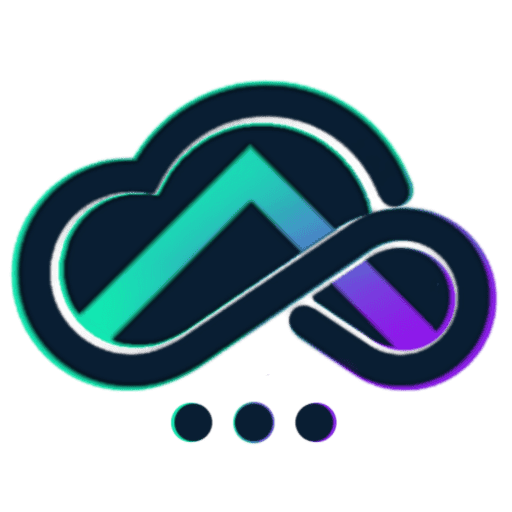
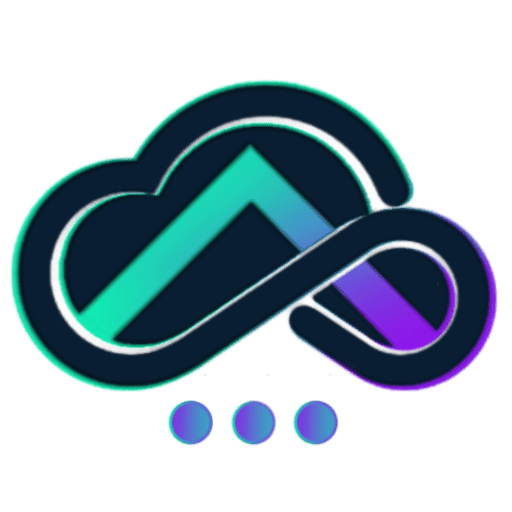
Regular update, and added delete clipboard functionality

diff --git a/src/commands/paste.ts b/src/commands/paste.ts
@@ -14,7 +14,7 @@ export default async function paste(dir: string | undefined) {
         if(connectionList === undefined){
             window.showInformationMessage("Cloud Clipboard is not configured correctly. Please configure it in the extension settings.", "Open Settings").then(selection => {
                 if (selection === "Open Settings") {
-                    commands.executeCommand('workbench.action.openSettings', '@ext:AylexCODE.cloud-clipboard');
+                    commands.executeCommand("workbench.action.openSettings", "@ext:AylexCODE.cloud-clipboard");
                 }
             });
             return;
@@ -23,6 +23,8 @@ export default async function paste(dir: string | undefined) {
         const items = connectionList.map((conn) => {
             return { label: conn };
         });
+
+        if(items.length === 0) return window.showWarningMessage(`Clipboard is empty for the connection ${config.get<string>("connection")!}`);
 
         const clipboardList = await window.showQuickPick(items, {
             canPickMany: false,
@@ -42,53 +44,53 @@ export default async function paste(dir: string | undefined) {
                             editBuilder.replace(selection, clipboard[0].content);
                         });
 
-                        if(!pasted) return window.showWarningMessage('Paste error.');
+                        if(!pasted) return window.showWarningMessage("Paste error.");
                         
                         window.showInformationMessage(`Pasted ${clipboardList.label} at line ${selection.active.line + 1}`);
                     }else if(clipboard.length !== 0){
                         const folderName = await window.showInputBox({ prompt: "Save To Folder" });
-                        if(!folderName) return window.showWarningMessage(`Paste cancelled.`);
+                        if(!folderName) return window.showWarningMessage("Paste cancelled.");
 
                         const saveDir = workspace.getWorkspaceFolder(editor.document.uri);
-                        if(!saveDir) return window.showWarningMessage('Paste error.');
+                        if(!saveDir) return window.showWarningMessage("Paste error.");
 
                         vscodeClipboard(saveDir.uri.path, folderName, clipboard, clipboardList.label);
                     }else{
-                        return window.showWarningMessage('Paste error.');
+                        return window.showWarningMessage("Paste cancelled, clipboard is empty.");
                     }
                 }else{
-                    return window.showWarningMessage('Paste error.');
+                    return window.showWarningMessage("Paste error.");
                 }
             }else{
                 const clipboard = await getClipboardContent(config, clipboardList.label);
                 if(clipboard){
                     if(clipboard.length === 1){
                         const fileName = await window.showInputBox({ prompt: "Save As" });
-                        if(!fileName) return window.showWarningMessage(`Paste cancelled.`);
+                        if(!fileName) return window.showWarningMessage("Paste cancelled.");
                         
                         const filePath = Uri.file(path.join(dir, fileName));
-                        await workspace.fs.writeFile(filePath, Buffer.from(clipboard[0].content, 'utf-8'));
+                        await workspace.fs.writeFile(filePath, Buffer.from(clipboard[0].content, "utf-8"));
 
                         window.showInformationMessage(`Pasted ${clipboardList.label} at ${fileName}`);
                         const createdFile = await workspace.openTextDocument(filePath);
                         await window.showTextDocument(createdFile);
                     }else if(clipboard.length !== 0){
                         const folderName = await window.showInputBox({ prompt: "Save To Folder" });
-                        if(!folderName) return window.showWarningMessage(`Paste cancelled.`);
+                        if(!folderName) return window.showWarningMessage("Paste cancelled.");
 
                         vscodeClipboard(dir, folderName, clipboard, clipboardList.label);
                     }else{
-                        return window.showWarningMessage('Paste error.');
+                        return window.showWarningMessage("Paste cancelled, clipboard is empty.");
                     }
                 }else{
-                    return window.showWarningMessage('Paste error.');
+                    return window.showWarningMessage("Paste error.");
                 }
             }
         }else{
-            window.showWarningMessage('Paste cancelled.');
+            window.showWarningMessage("Paste cancelled.");
         }
     }catch{
-        window.showErrorMessage('Paste error.');
+        window.showErrorMessage("An error occured.");
     }
 }
 
@@ -97,7 +99,7 @@ async function vscodeClipboard(saveDir: string, folderName: string, clipboard: C
 
     clipboard.forEach(async (data) => {
         const filePath = Uri.joinPath(Uri.file(saveDir), folderName, data.file);
-        await workspace.fs.writeFile(filePath, Buffer.from(data.content, 'utf-8'));
+        await workspace.fs.writeFile(filePath, Buffer.from(data.content, "utf-8"));
         const createdFile = await workspace.openTextDocument(filePath);
         await window.showTextDocument(createdFile);
     });

diff --git a/src/commands/copy.ts b/src/commands/copy.ts
@@ -11,7 +11,7 @@ export default async function copy(dirs: Uri[] | undefined){
         if(config.get<string>("endpoint")!.trim().length === 0 || config.get<string>("connection")!.trim().length === 0) {
             window.showInformationMessage("Cloud Clipboard is not configured correctly. Please configure it in the extension settings.", "Open Settings").then(selection => {
                 if (selection === "Open Settings") {
-                    commands.executeCommand('workbench.action.openSettings', '@ext:AylexCODE.cloud-clipboard');
+                    commands.executeCommand("workbench.action.openSettings", "@ext:AylexCODE.cloud-clipboard");
                 }
             });
             return;
@@ -23,7 +23,7 @@ export default async function copy(dirs: Uri[] | undefined){
         const selection = editor.selection;
         const content = editor.document.getText(selection);
 
-        if(dirs === undefined) if(content.trim().length === 0) return window.showWarningMessage('Please highlight content to save.');
+        if(dirs === undefined) if(content.trim().length === 0) return window.showWarningMessage("Please highlight content to save.");
         
         const clipboard = await window.showInputBox({ prompt: "Copy As" });
         if(clipboard){
@@ -32,7 +32,7 @@ export default async function copy(dirs: Uri[] | undefined){
                 if(saved === 200){
                     window.showInformationMessage(`Copied ${clipboard} to cloud clipboard.`);
                 }else{
-                    window.showErrorMessage('An error occured while copying to cloud clipboard.');
+                    window.showErrorMessage("An error occured while copying to cloud clipboard.");
                 }
             }else{
                 let contents: ClipboardData[] = [];
@@ -57,14 +57,14 @@ export default async function copy(dirs: Uri[] | undefined){
                 if(saveStatus === 200){
                     window.showInformationMessage(`Copied ${clipboard} to cloud clipboard.`);
                 }else{
-                    window.showErrorMessage('An error occured while copying to cloud clipboard.');
+                    window.showErrorMessage("An error occured while copying to cloud clipboard.");
                 }
 
             }
         }else{
-            window.showWarningMessage('Copy cancelled.');
+            window.showWarningMessage("Copy cancelled.");
         }
     }catch{
-        window.showErrorMessage('Copy error.');
+        window.showErrorMessage("An error occured.");
     }
 }

diff --git a/src/commands/delete.ts b/src/commands/delete.ts
@@ -1,0 +1,40 @@
+import { commands, window, workspace } from "vscode";
+import getConnections from "../utils/getConnectionLists";
+import deleteClipboard from "../utils/deleteClipboard";
+
+export default async function del() {    
+    try{
+        const config = workspace.getConfiguration("cloudclipboard");
+
+        const connectionList = await getConnections(config);
+        if(connectionList === undefined){
+            window.showWarningMessage("Cloud Clipboard is not configured correctly. Please configure it in the extension settings.", "Open Settings").then(selection => {
+                if (selection === "Open Settings") {
+                    commands.executeCommand("workbench.action.openSettings", "@ext:AylexCODE.cloud-clipboard");
+                }
+            });
+            return;
+        }
+
+        const items = connectionList.map((conn) => {
+            return { label: conn };
+        });
+
+        if(items.length === 0) return window.showWarningMessage(`Clipboard is empty for the connection ${config.get<string>("connection")!}`);
+
+        const clipboardList = await window.showQuickPick(items, {
+            canPickMany: false,
+            title: "Select Clipboard"
+        });
+
+        if(clipboardList?.label){
+            const clipboard = await deleteClipboard(config, clipboardList.label);
+            if(clipboard === 200) return window.showInformationMessage(`Deleted ${clipboardList.label} successfully`);
+            window.showWarningMessage("Delete error.");
+        }else{
+            window.showWarningMessage("Delete cancelled.");
+        }
+    }catch{
+        window.showErrorMessage("An error occured.");
+    }
+}

diff --git a/src/commands.ts b/src/commands.ts
@@ -2,6 +2,7 @@ import { commands, Uri, window, ExtensionContext } from "vscode";
 import paste from "./commands/paste";
 import copy from "./commands/copy";
 import getDirectory from "./utils/getDirectory";
+import del from "./commands/delete";
 
 export default function registerAllCommands(context: ExtensionContext) {
     context.subscriptions.push(commands.registerCommand('cloudclipboard.copy', async(uri: Uri, uris: Uri[]) => {
@@ -19,4 +20,5 @@ export default function registerAllCommands(context: ExtensionContext) {
         }catch{window.showErrorMessage('Error selecting directory.')}
     }));
     context.subscriptions.push(commands.registerCommand('cloudclipboard.editorPaste', () => {paste(undefined)}));
+    context.subscriptions.push(commands.registerCommand('cloudclipboard.delete', () => {del()}));
 }

diff --git a/src/utils/deleteClipboard.ts b/src/utils/deleteClipboard.ts
@@ -1,0 +1,15 @@
+import { WorkspaceConfiguration } from "vscode";
+
+export default async function deleteClipboard(config: WorkspaceConfiguration, clipboard: string): Promise<number | undefined> {
+    const endpoint: string = config.get<string>("endpoint")!;
+    const connection: string = config.get<string>("connection")!;
+    
+    if(endpoint.trim().length === 0 || connection.trim().length === 0) return undefined;
+
+    try{
+        const data = await fetch(`${endpoint}?connection=${connection}&clipboard=${clipboard}`, {method: "delete"});
+        return data.status;
+    }catch{
+        return 400;
+    }
+}

diff --git a/README.md b/README.md
@@ -16,6 +16,18 @@ Code instance and paste it instantly in another—across different machines, OSs
 - **Multi-Slot Support:** Save multiple snippets to different "slots" in the cloud.
 - **Cross-Platform:** Works wherever VS Code runs (Windows, macOS, Linux, and Web).
 
+## ⚒ Example Usage
+
+### Copy
+![copy](https://github.com/AylexCODE/cloud-clipboard/blob/main/img/demo/copy.png)
+
+### Paste
+![copy](https://github.com/AylexCODE/cloud-clipboard/blob/main/img/demo/paste.png)
+
+### Delete
+![copy](https://github.com/AylexCODE/cloud-clipboard/blob/main/img/demo/delete.png)
+
+
 ## 🛠 Infrastructure & Setup
 
 To keep this tool lightweight, private, free to use, and avoid overloading free-tier resources, **it is recommended to provide your own API endpoint.** 
@@ -51,7 +63,7 @@ To link your VS Code extension to your API Endpoint:
 1. Open **Settings** (`Ctrl + ,` or `Cmd + ,`).
 2. Search for **"Cloud Clipboard"**.
 3. Fill in your specific details:
-   - **API Endpoint**: `https://example.com`
+   - **API Endpoint**: `https://example.com` (make sure endpoint does not end with a slash)
    - **Connection**: `example`
   
 ### 3. Error Handling

diff --git a/CHANGELOG.md b/CHANGELOG.md
@@ -1,3 +1,12 @@
+## 0.1.0 - 2026 March 22
+### Added
+- Delete clipboard function
+- Example usage
+### Improved
+- Error messages
+### Changed
+- Icon
+
 ## 0.0.6 - 2026 March 22
 ### Added
 - Open settings button shortcut when using commands if configured
